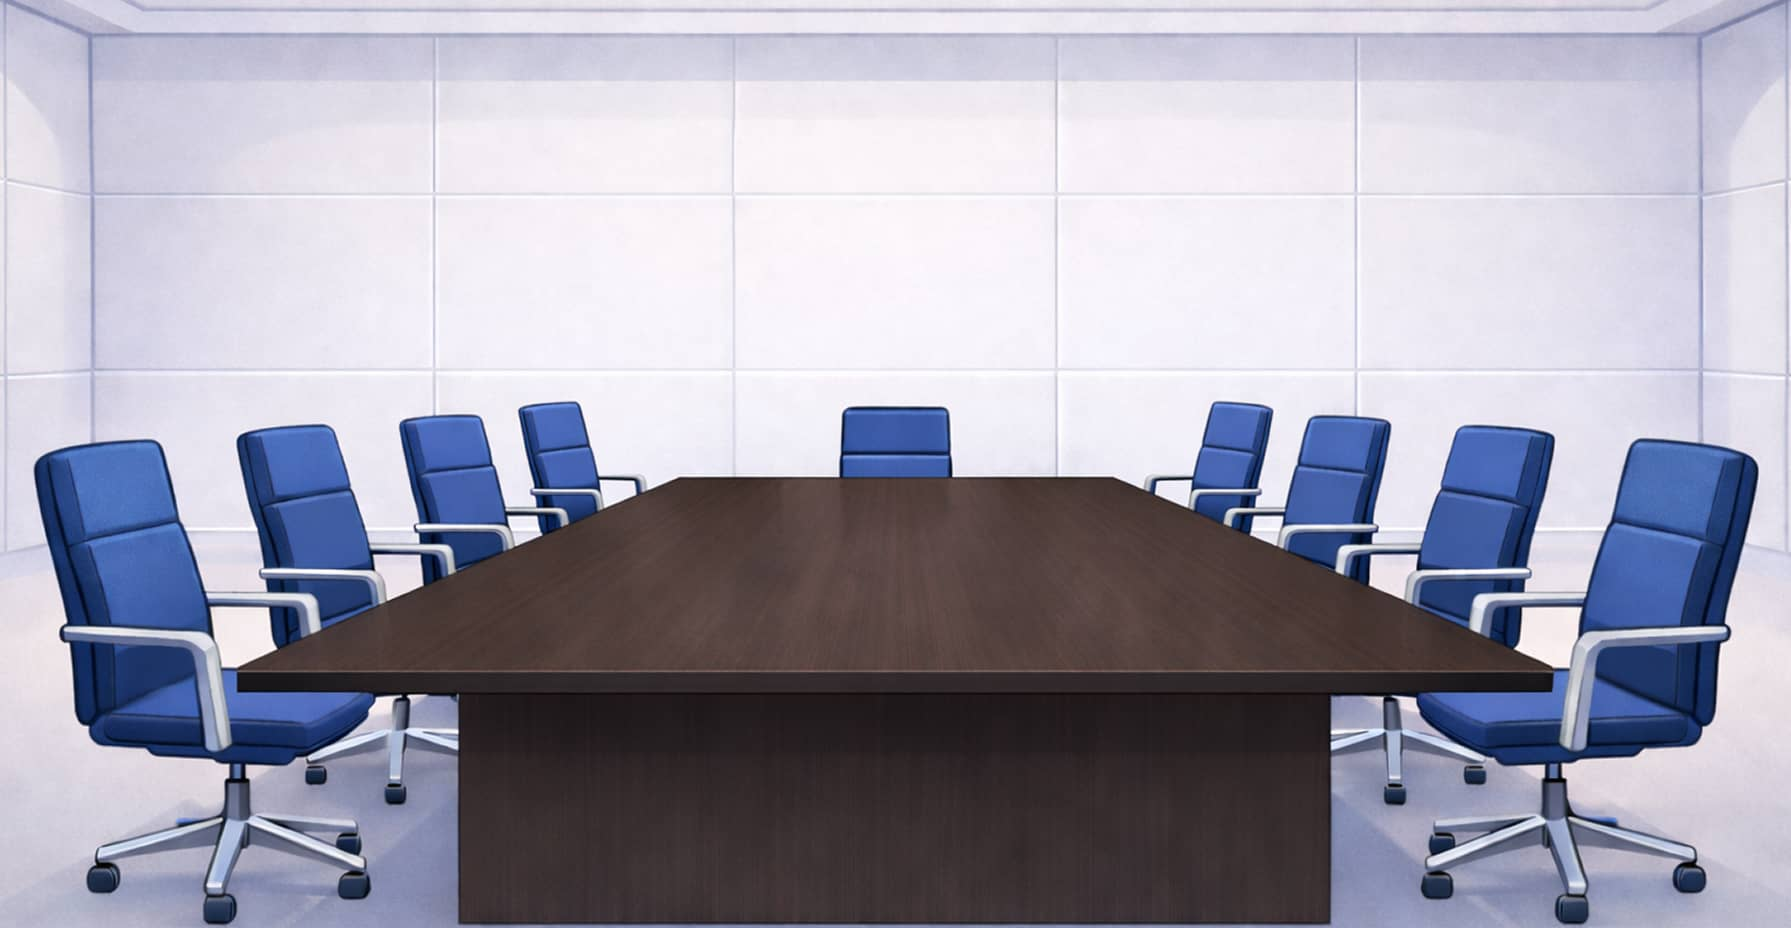
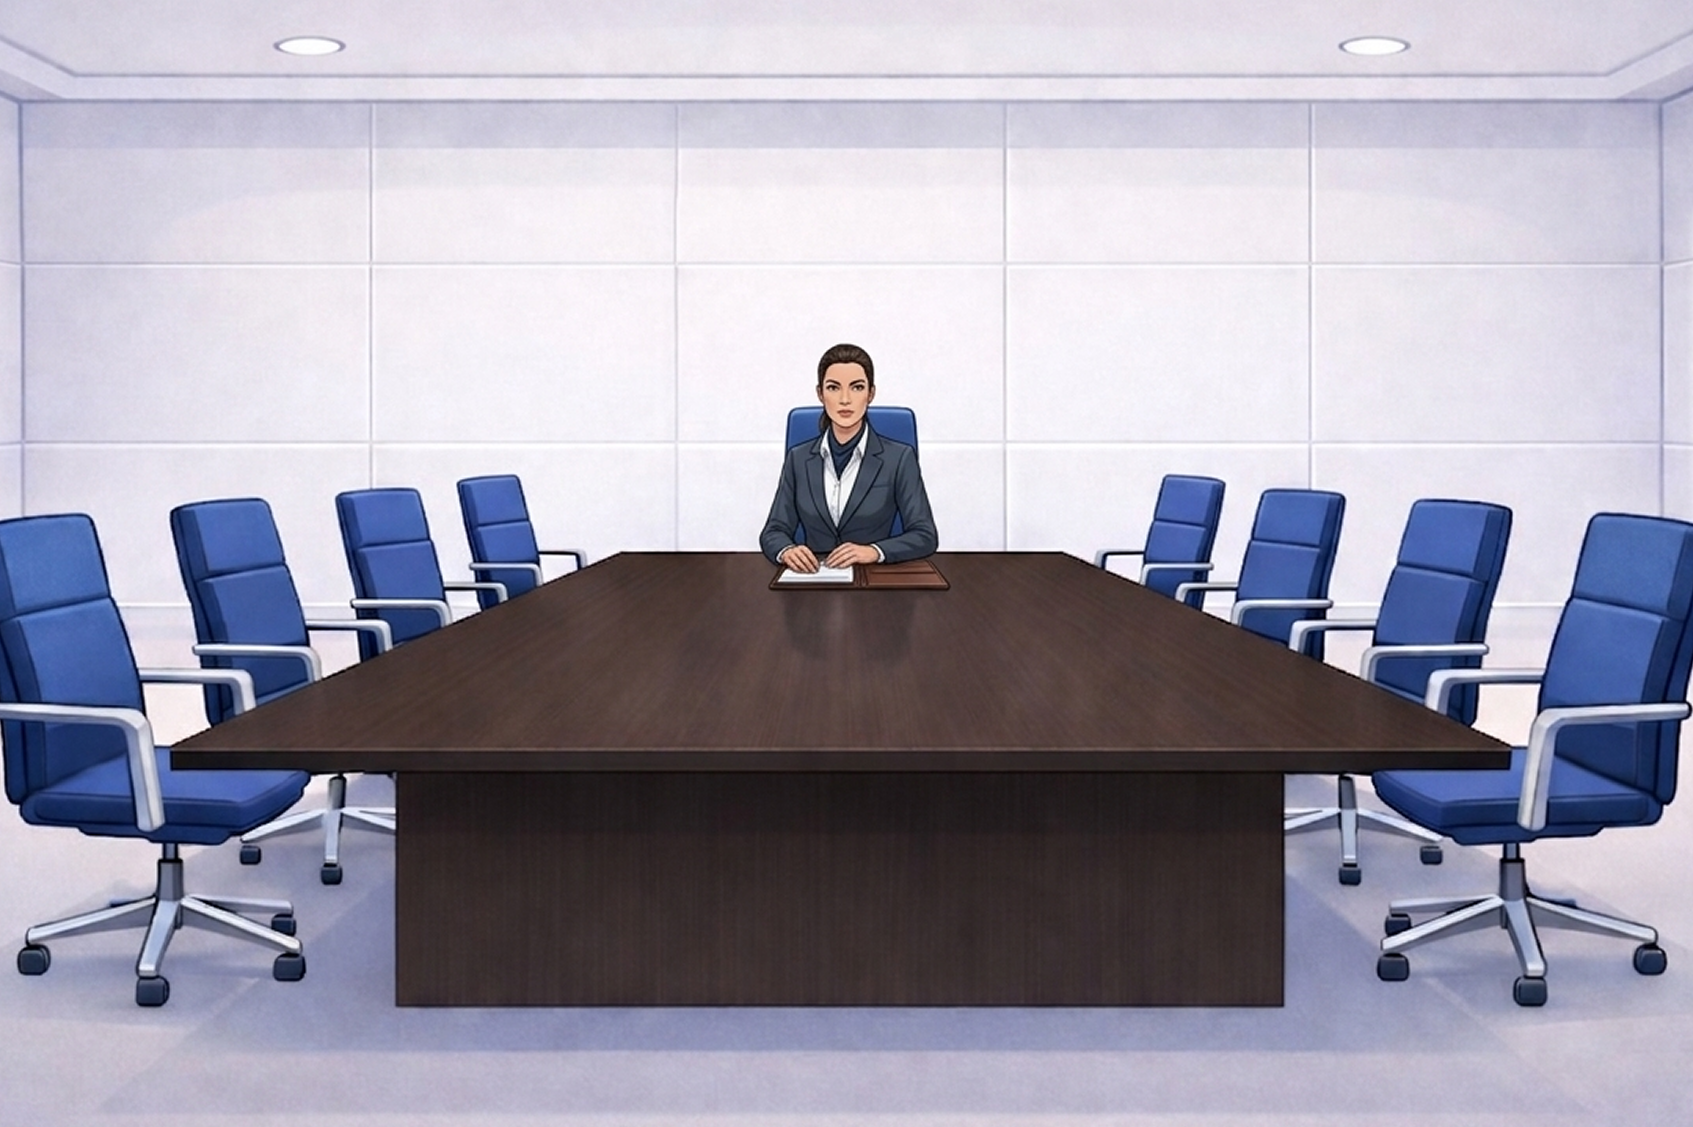
Updates

diff --git a/index.html b/index.html
@@ -1,1 +1,1 @@
-<!doctype html><html lang="en"><head><meta charset="utf-8"/><link rel="icon" href="/hagaa-lomda/favicon.ico"/><meta name="viewport" content="width=device-width,initial-scale=1"/><meta name="theme-color" content="#000000"/><meta name="description" content="המכללה הלאומית לאיתנות ישראלית"/><link rel="apple-touch-icon" href="/hagaa-lomda/logo192.png"/><link rel="manifest" href="/hagaa-lomda/manifest.json"/><title>לומדת הג"א</title><script defer="defer" src="/hagaa-lomda/static/js/main.f7acaef9.js"></script><link href="/hagaa-lomda/static/css/main.517ec696.css" rel="stylesheet"></head><body><noscript>You need to enable JavaScript to run this app.</noscript><div id="root"></div></body></html>
+<!doctype html><html lang="en"><head><meta charset="utf-8"/><link rel="icon" href="/hagaa-lomda/favicon.ico"/><meta name="viewport" content="width=device-width,initial-scale=1"/><meta name="theme-color" content="#000000"/><meta name="description" content="המכללה הלאומית לאיתנות ישראלית"/><link rel="apple-touch-icon" href="/hagaa-lomda/logo192.png"/><link rel="manifest" href="/hagaa-lomda/manifest.json"/><title>לומדת הג"א</title><script defer="defer" src="/hagaa-lomda/static/js/main.0f0519fb.js"></script><link href="/hagaa-lomda/static/css/main.5eb7cdda.css" rel="stylesheet"></head><body><noscript>You need to enable JavaScript to run this app.</noscript><div id="root"></div></body></html>